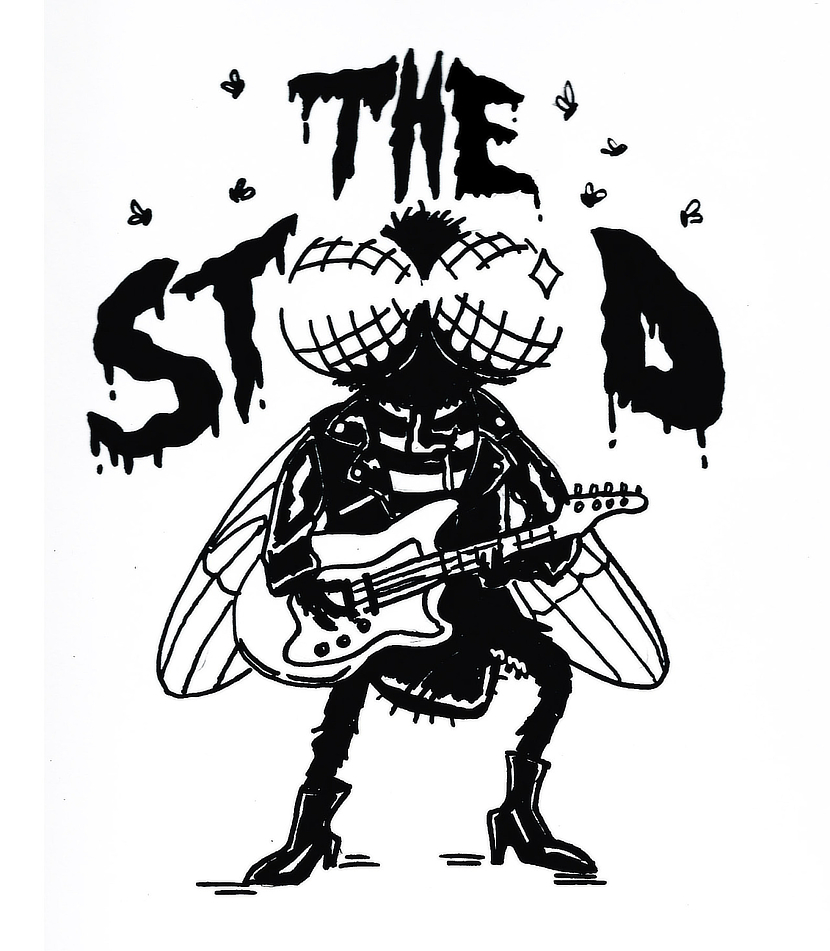
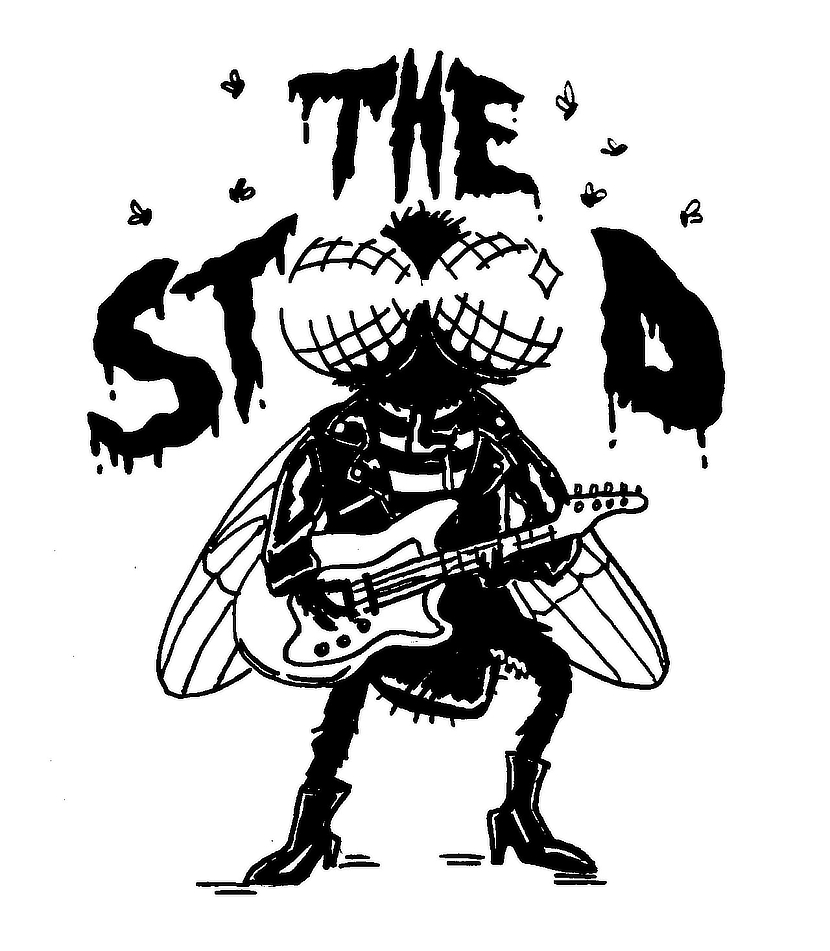
Higher quality photo and disclaimer note

diff --git a/illustration/index.php b/illustration/index.php
@@ -8,10 +8,9 @@
         <span class="sr-only">Illustration</span>
         <span class="icon-illustration"></span>
     </h1>
-    <!-- <p>Coming soon!</p>
     <p>
-      <a href="<?= $BASE_URL; ?>" title="Home">Go Home</a>
-    </p> -->
+      Click each thumbnail to view full-size + more info.
+    </p>
   </section>
   <div class="project-gallery">
 
